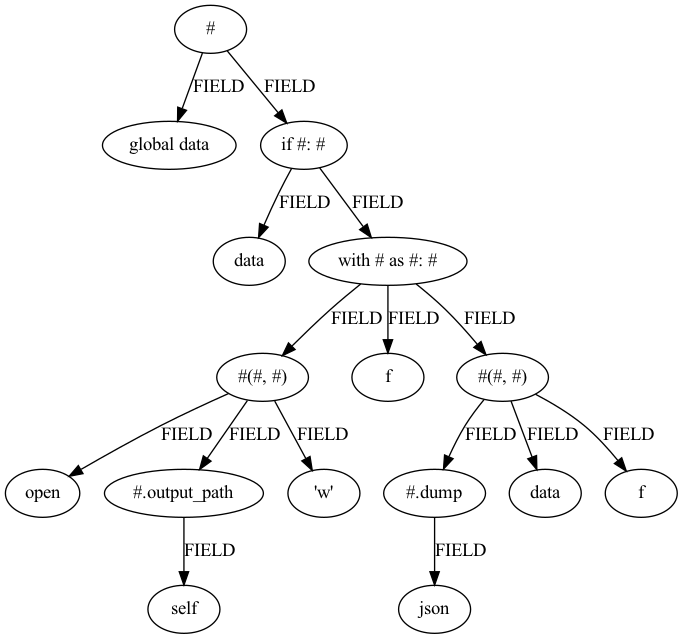
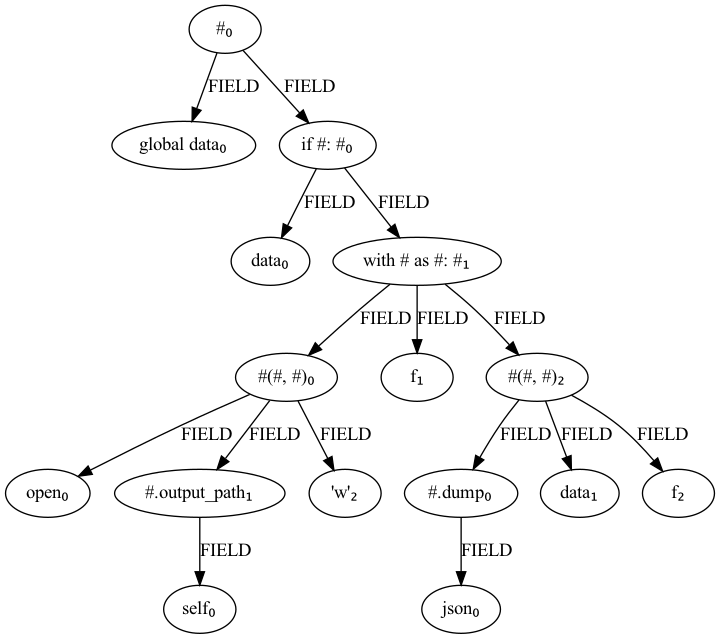
retain formatting within the SAST

diff --git a/utils.py b/utils.py
@@ -124,14 +124,9 @@ def label_nodes(sast: ProgramGraph, source: str):
             span = span[:c_l] + '#' + span[c_r:]
             offset += (c_r - c_l) - 1
         
-        span = re.sub('\s+', ' ', span)
         setattr(node, 'span', span)
 
     return sast
-
-
-def add_indent_to_block(prog_str: str):
-    return textwrap.indent(prog_str, 1 * '\t')
 
 
 def kth_substr_idx(s: str, sub: str, k):
@@ -143,58 +138,33 @@ def kth_substr_idx(s: str, sub: str, k):
         return where[k - 1]
 
 
-# NOTE @manishs: migth be incomplete and hacky. Need to
-# clean it up in the future and simplify transpilation between
-# source and sast.
+# NOTE @manishs: migth be incomplete and hacky.
+# clean up in the future and simplify transpilation.
 def replace_nonterminals(node, child_spans):
     '''replace nonterminals in a node's span'''
 
-    ins = 0
-    dels = 0
-
+    ins, dels = 0, 0
     module_flag = False
+    
     if isinstance(node.ast_node, ast.Module):
         module_flag = True
 
     child_spans = sorted(child_spans, key=lambda x: x[1])
     new_span = node.span if not module_flag else ""
-    col_loc = None
-
-    if ' else' in new_span:
-        new_span = new_span.replace(' else', '\nelse')
     
     # ######## LOOP OVER THE CHILDREN #########
 
     for span, span_idx in child_spans:
-        elif_flag = span.startswith('elif')
-        else_flag = 'else' in span
         span_idx = span_idx - dels + ins
 
         if module_flag:
             new_span += span + "\n"
         else:
             loc = kth_substr_idx(new_span, '#', k=span_idx + 1)
-
-            if ':' in new_span:
-                col_loc = new_span.index(':')
-            
-            # adding a elif/elif-else (child) to an if (parent)
-            if elif_flag:
-                span = f"\n{span}"
-                if else_flag:
-                    span = span.replace(' else', '\nelse')
-            
-            # adding a child to a block node (parent)
-            elif col_loc and loc > col_loc:
-                span = f"\n{add_indent_to_block(span)}"
-
             new_span = new_span[:loc] + new_span[loc:].replace('#', span, 1)
             
             dels += 1
             ins += len([m for m in re.finditer('#', span)])
-
-    if col_loc:
-        new_span = new_span.replace(':', ':\n')
 
     node.span = new_span
     return node

diff --git a/visualizers.py b/visualizers.py
@@ -1,5 +1,5 @@
 """Graphviz visualizations of Program Graphs."""
-
+import re
 import pygraphviz
 from python_graphs import program_graph_dataclasses as pb
 
@@ -12,6 +12,8 @@ def to_graphviz(graph, spans=False, relpos=False):
     Returns:
         A pygraphviz object representing the ProgramGraph.
     """
+    SUB = str.maketrans("0123456789", "₀₁₂₃₄₅₆₇₈₉")
+
     g = pygraphviz.AGraph(strict=False, directed=True)
     for _, node in graph.nodes.items():
         node_attrs = {}
@@ -20,7 +22,11 @@ def to_graphviz(graph, spans=False, relpos=False):
             if spans:
                 node_attrs['label'] = str(node.span)
             if relpos:
-                node_attrs['label'] += f" ({str(node.relpos)})"
+                relpos_str = str(node.relpos).translate(SUB)
+                node_attrs['label'] += relpos_str
+            
+            # remove formatting for the render
+            node_attrs['label'] = re.sub('\s+', ' ', node_attrs['label'])
         else:
             node_attrs['shape'] = 'point'
 

diff --git a/main.py b/main.py
@@ -30,7 +30,7 @@ if __name__ == "__main__":
     sast = collapse_nodes(sast)
     if sast is not None:
         sast = label_nodes(sast, source)
-        render_sast(sast, path="tmp/sast.png", spans=True)
+        render_sast(sast, path="tmp/sast.png", spans=True, relpos=True)
         # print(sast_to_prog(sast))
     else:
         print("SAST is an empty graph :(")
